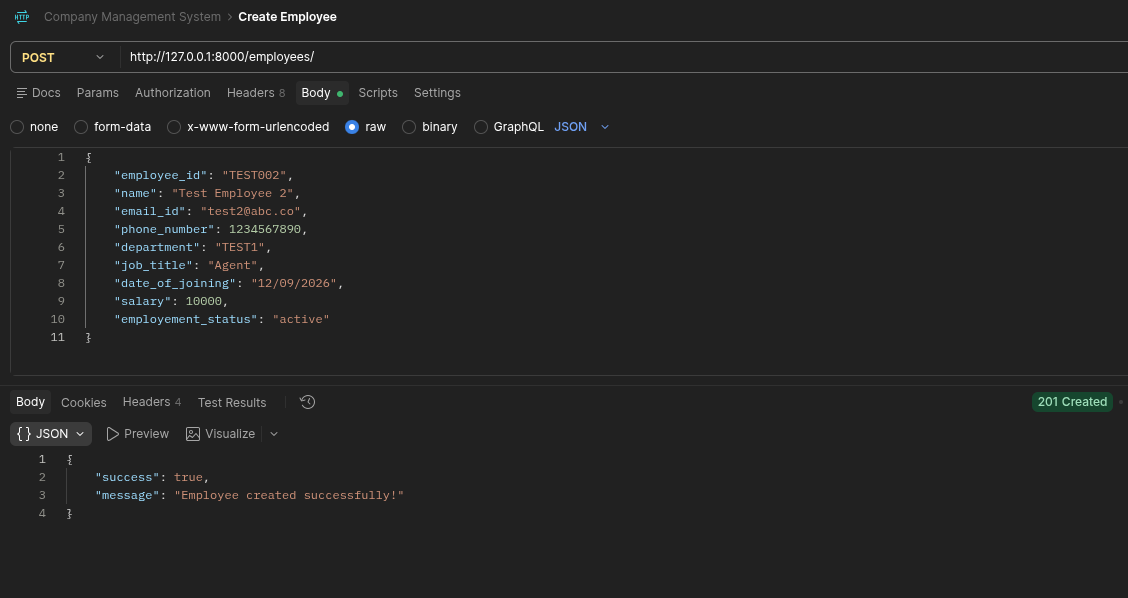
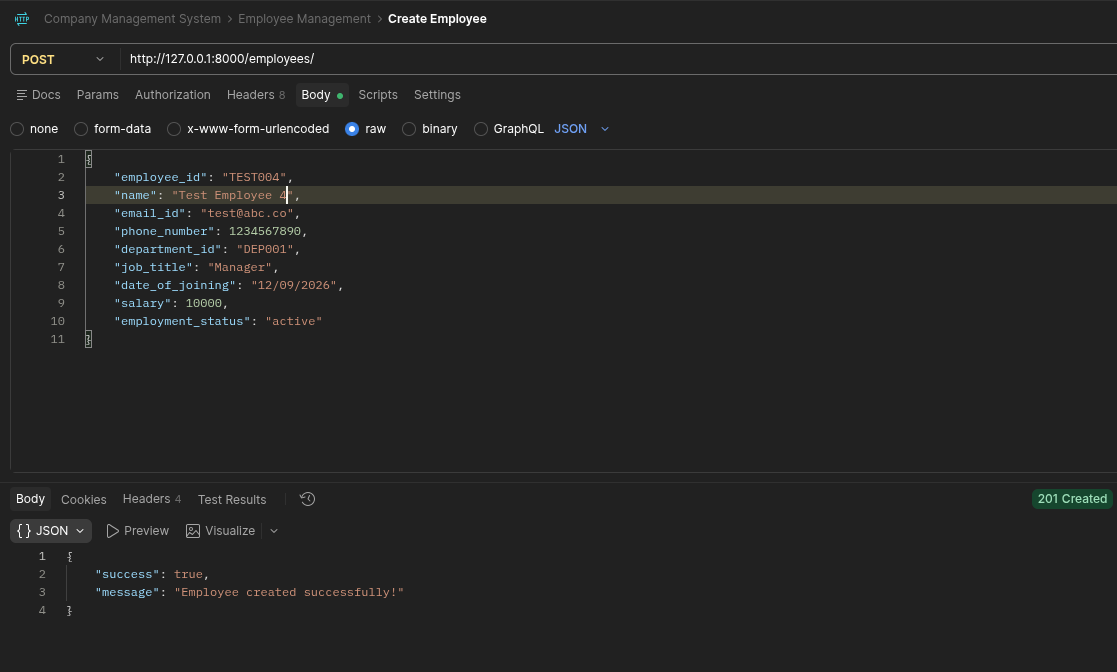
Updated README.md with department ID and employement_status spelling correction.

diff --git a/README.md b/README.md
@@ -81,11 +81,11 @@ Example request:
     "name": "John Doe",
     "email_id": "john.doe@example.com",
     "phone_number": 1234567890,
-    "department": "Sales",
+    "department_id": "DEP001",
     "job_title": "Sales Executive",
     "date_of_joining": "2026-09-12",
     "salary": 14000,
-    "employement_status": "active"
+    "employment_status": "active"
 }
 ```
 

diff --git a/guides/DEPARTMENT.md b/guides/DEPARTMENT.md
@@ -1,0 +1,2 @@
+# Department Management
+This document gives a detailed information about **Department Management**. It is the second 
